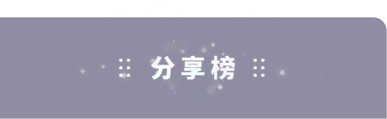
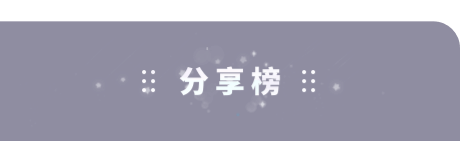
finish web

diff --git a/src/js/components/RankList/index.js b/src/js/components/RankList/index.js
@@ -103,39 +103,39 @@ export  default class RankList extends Component {
         const {type, data, isLoading} =this.state;
         const {acid, router} = this.props;
         return (
-            <div className={style.rankList}>
-                <div>
-                    <div className={style.rankButton}>
-                        <img src= { type === 'share' ? commentUnselect : commentSelect} onClick={this.changeRankType.bind(this,'comment', acid)} />
-                        <img src={ type === 'share' ? shareSelect : shareUnselect } onClick={this.changeRankType.bind(this,'share', acid)}/>
-                    </div>
-                    <div className={style.listContainer}>
-                        {
-                            data.map((item, index) =>(
-                                <Rank
-                                    router={router}
-                                    key={`${item.bid}_${index}`}
-                                    bookName={item.book_name}
-                                    description={item.desc}
-                                    label={item.tags}
-                                    cover={item.cover}
-                                    author={item.author_name}
-                                    authorImg={item.icon}
-                                    bid={item.bid}
-                                    count={type=== "comment" ? item.comments : item.shares}
-                                    appUrl={item.app_url}
-                                    webUrl={item.web_url}
-                                    wapUrl={item.wap_url}
-                                    isComment={type === "comment" ? true : false}
-                                    index={index+1} />
-                            ))
-                        }
-                        {
-                            isLoading ? (<div className={style.animate}><span className="fa fa-spinner fa-pulse" /></div>) : null
-                        }
-                    </div>
+            <div>
+                <div className={style.rankButton}>
+                    <img src= { type === 'share' ? commentUnselect : commentSelect} onClick={this.changeRankType.bind(this,'comment', acid)} />
+                    <img src={ type === 'share' ? shareSelect : shareUnselect } onClick={this.changeRankType.bind(this,'share', acid)}/>
                 </div>
-                <button className={style.loadMore} onClick={this.loadMore.bind(this, acid)}>查看更多</button>
+                <div className={style.rankList}>
+                        <div className={style.listContainer}>
+                            {
+                                data.map((item, index) =>(
+                                    <Rank
+                                        router={router}
+                                        key={`${item.bid}_${index}`}
+                                        bookName={item.book_name}
+                                        description={item.desc}
+                                        label={item.tags}
+                                        cover={item.cover}
+                                        author={item.author_name}
+                                        authorImg={item.icon}
+                                        bid={item.bid}
+                                        count={type=== "comment" ? item.comments : item.shares}
+                                        appUrl={item.app_url}
+                                        webUrl={item.web_url}
+                                        wapUrl={item.wap_url}
+                                        isComment={type === "comment" ? true : false}
+                                        index={index+1} />
+                                ))
+                            }
+                            {
+                                isLoading ? (<div className={style.animate}><span className="fa fa-spinner fa-pulse" /></div>) : null
+                            }
+                        </div>
+                    <button className={style.loadMore} onClick={this.loadMore.bind(this, acid)}>查看更多</button>
+                </div>
             </div>
         )
     }

diff --git a/src/js/components/RankList/index.scss b/src/js/components/RankList/index.scss
@@ -4,8 +4,10 @@
   background: #444162;
   margin: 0 auto;
   padding-bottom: 28px;
-  border-radius: 18px;
+  border-bottom-left-radius: 18px;
+  border-bottom-right-radius: 18px;
   width: 690px;
+  margin-top: -13px;
   >div {
     width: 100%;
     margin: 0 auto;
@@ -19,6 +21,7 @@
 .rankButton {
   margin: 0 auto;
   overflow: auto;
+  width: 690px;
   img {
     height: 100px;
     width: 345px;
